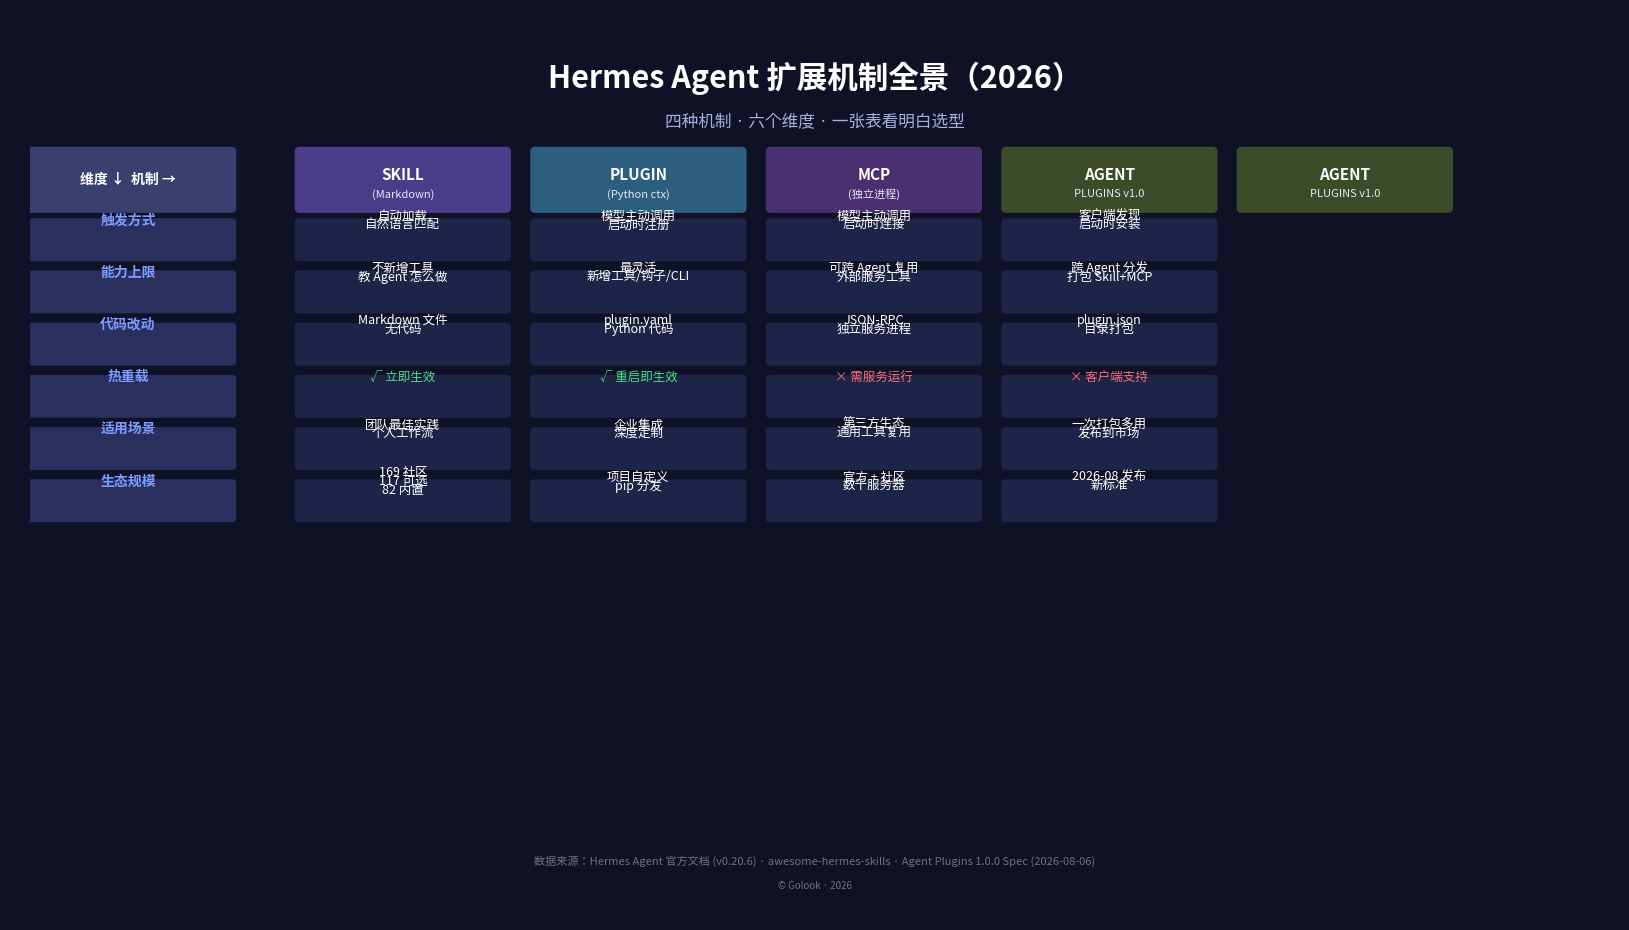
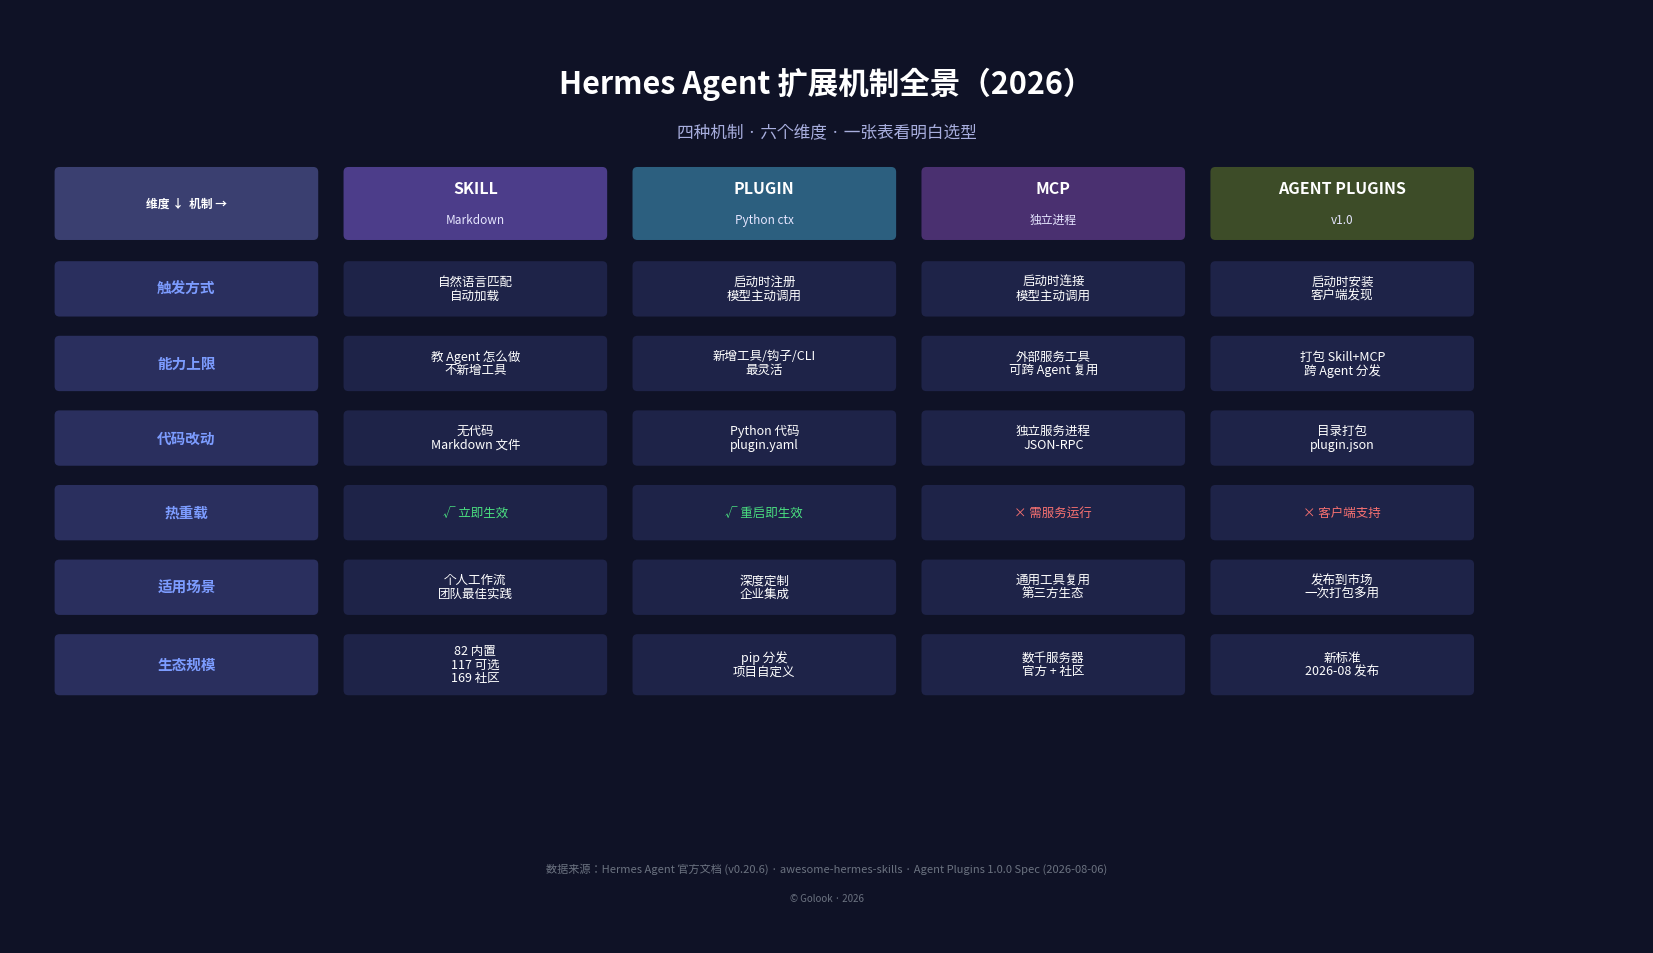
Fix: extension-mechanisms overview image layout (5 columns aligned, line spacing > font height)

diff --git a/source/images/hermes-extension-mechanisms-overview-2026.py b/source/images/hermes-extension-mechanisms-overview-2026.py
@@ -1,5 +1,13 @@
 #!/usr/bin/env python3
-"""Hermes Agent 扩展机制全景图 — 四种机制 × 六个维度对比表"""
+"""Hermes Agent 扩展机制全景图 — 四种机制 × 六个维度对比表
+
+修复记录（2026-10-26）：
+  1. 原 col_x 有 6 个 x 坐标，表头循环画了 6 个盒子，但数据只有 4 个机制 →
+     最右列永远空白。现改为 NCOLS=5（1 维度列 + 4 机制列），表头与数据同长度。
+  2. 原多行文字行距 0.9 单位 = 9px，而 fontsize=9 @ dpi=100 = 13.75px →
+     行距小于字号，文字互相压叠。现按 LINE_SP 单位（>= fontsize/dpi 折算）计算行距，
+     并按每格最大行数动态抬高该行高度。
+"""
 import matplotlib
 matplotlib.use('Agg')
 import matplotlib.pyplot as plt
@@ -12,141 +20,148 @@ FONT_REG  = FontProperties(fname='/usr/share/fonts/opentype/noto/NotoSansCJK-Reg
 
 # 主题色（深色背景 + 蓝紫）
 BG      = '#0f1226'
-PANEL   = '#181c38'
 HEADER  = '#2a2f5e'
 CELL    = '#1e2348'
-CELL_A  = '#2a2f5e'   # hover/强调
-GRID    = '#3a3f70'
 TITLE_C = '#ffffff'
 SUB_C   = '#a8aede'
 ACCENT  = '#7c9cff'   # 蓝
-ACCENT2 = '#b58cff'   # 紫
 GREEN   = '#4ade80'
-YELLOW  = '#fbbf24'
 RED     = '#f87171'
 GREY    = '#6b7280'
 
-fig, ax = plt.subplots(figsize=(16, 9), dpi=100)
-ax.set_facecolor(BG)
-fig.patch.set_facecolor(BG)
-ax.set_xlim(0, 160)
-ax.set_ylim(0, 90)
-ax.axis('off')
+FIG_W_IN, FIG_H_IN, DPI = 16, 9, 100
+X_MAX, Y_MAX = 160, 90
 
-# 标题
-ax.text(80, 85, 'Hermes Agent 扩展机制全景（2026）',
-        fontproperties=FONT_BOLD, fontsize=22, color=TITLE_C, ha='center', va='center')
-ax.text(80, 80.5, '四种机制 · 六个维度 · 一张表看明白选型',
-        fontproperties=FONT_REG, fontsize=12, color=SUB_C, ha='center', va='center')
+# --- 版式几何（单位：数据坐标；1 单位 y = FIG_H_IN/Y_MAX*DPI px）---
+PX_PER_UNIT_Y = FIG_H_IN / Y_MAX * DPI          # 1 单位 y 对应的像素数
+FS_CELL = 9                                     # 正文字号
+FS_HEAD = 11.5
+FS_HEAD_SUB = 8.5
+FS_DIM = 10.5
+LINE_SP = (FS_CELL * 1.55) / PX_PER_UNIT_Y      # 行距单位：保证 > 一行字高
+PAD_V = 1.0                                     # 单元格上下内边距（单位 y）
 
-# 表格布局：1 列维度 + 4 列机制
-col_x = [10, 38, 62, 86, 110, 134]   # 6 列中心 x
-col_w = 22
-row_h = 5.4
-row_top = 76
+NMECH = 4                                        # 机制列数
+NCOLS = NMECH + 1                                # 总列数（含维度列）
+GAP = 2.6                                        # 列间隙
+COLOFF = 14                                     # 左侧留白
+COL_W = 26.6
+col_x = [COLOFF + GAP / 2 + i * (COL_W + GAP) for i in range(NCOLS)]
 
-# 表头行
-header_y = row_top - 1.5
-for i, x in enumerate(col_x):
-    # 交替色块
-    if i == 0:
-        color = '#3a3f70'
-        label = '维度 ↓  机制 →'
-    elif i == 1:
-        color = '#4c3d8a'  # skill 紫
-        label = 'SKILL\n(Markdown)'
-    elif i == 2:
-        color = '#2c5f7f'  # plugin 青
-        label = 'PLUGIN\n(Python ctx)'
-    elif i == 3:
-        color = '#4a3070'  # MCP 深紫
-        label = 'MCP\n(独立进程)'
-    else:
-        color = '#3d4c28'  # Agent Plugins 绿
-        label = 'AGENT\nPLUGINS v1.0'
-    rect = FancyBboxPatch((x - col_w/2, header_y - 3.4), col_w, 6.8,
-                          boxstyle="round,pad=0.02,rounding_size=0.5",
-                          linewidth=0, facecolor=color)
-    ax.add_patch(rect)
-    # 表头文字：分两行时垂直居中，一行时居中
-    if '\n' in label:
-        ax.text(x, header_y + 0.5, label.split('\n')[0],
-                fontproperties=FONT_BOLD, fontsize=11, color='white', ha='center', va='center')
-        ax.text(x, header_y - 1.5, label.split('\n')[1],
-                fontproperties=FONT_REG, fontsize=8, color='#e6e6ff', ha='center', va='center')
-    else:
-        ax.text(x, header_y, label,
-                fontproperties=FONT_BOLD, fontsize=10, color='white', ha='center', va='center')
+# --- 表头（1 维度列 + 4 机制列，长度与数据严格一致）---
+HEADERS = [
+    ('维度 ↓  机制 →', '#3a3f70', None),
+    ('SKILL', '#4c3d8a', 'Markdown'),
+    ('PLUGIN', '#2c5f7f', 'Python ctx'),
+    ('MCP', '#4a3070', '独立进程'),
+    ('AGENT PLUGINS', '#3d4c28', 'v1.0'),
+]
+HEAD_H = 7.4
 
-# 数据行：6 个维度
-rows = [
-    # (维度, skill, plugin, mcp, agent_plugins)
+# --- 数据行：6 个维度 × 4 机制 ---
+ROWS = [
     ('触发方式', '自然语言匹配\n自动加载', '启动时注册\n模型主动调用', '启动时连接\n模型主动调用', '启动时安装\n客户端发现'),
     ('能力上限', '教 Agent 怎么做\n不新增工具', '新增工具/钩子/CLI\n最灵活', '外部服务工具\n可跨 Agent 复用', '打包 Skill+MCP\n跨 Agent 分发'),
     ('代码改动', '无代码\nMarkdown 文件', 'Python 代码\nplugin.yaml', '独立服务进程\nJSON-RPC', '目录打包\nplugin.json'),
-    ('热重载', '√ 立即生效', '√ 重启即生效', '× 需服务运行', '× 客户端支持'),
+    ('热重载',   '√ 立即生效', '√ 重启即生效', '× 需服务运行', '× 客户端支持'),
     ('适用场景', '个人工作流\n团队最佳实践', '深度定制\n企业集成', '通用工具复用\n第三方生态', '发布到市场\n一次打包多用'),
     ('生态规模', '82 内置\n117 可选\n169 社区', 'pip 分发\n项目自定义', '数千服务器\n官方 + 社区', '新标准\n2026-08 发布'),
 ]
 
-def cell_color(row_idx, col_idx, value):
-    """给关键单元格上色"""
-    v = value.replace('\n', '')
-    if '无代码' in v or '✅ 立即' in v or '⚠' in v:
-        if '⚠' in v:
-            return '#4a2f2f'
-        return '#2c4a2f'
-    return CELL
 
-row_y_start = row_top - 5.5
-for i, (dim, a, b, c, d) in enumerate(rows):
-    y = row_y_start - i * row_h
+def nlines(val):
+    return len(val.split('\n'))
+
+
+def cell_h(vals):
+    """按该行最大行数算出所需行高，保证不压叠、不溢出。"""
+    need = max(nlines(v) for v in vals) * LINE_SP + PAD_V * 2
+    return max(need, 5.6)
+
+
+def draw_cell(ax, x, y_top, w, h, color):
+    ax.add_patch(FancyBboxPatch(
+        (x - w / 2, y_top - h), w, h,
+        boxstyle="round,pad=0.02,rounding_size=0.5",
+        linewidth=0, facecolor=color, zorder=1))
+
+
+def cell_text_color(val):
+    """热重载行按 √/× 着色，其余白色。"""
+    if val.startswith('√'):
+        return GREEN
+    if val.startswith('×'):
+        return RED
+    return TITLE_C
+
+
+fig, ax = plt.subplots(figsize=(FIG_W_IN, FIG_H_IN), dpi=DPI)
+ax.set_facecolor(BG)
+fig.patch.set_facecolor(BG)
+ax.set_xlim(0, X_MAX)
+ax.set_ylim(0, Y_MAX)
+ax.axis('off')
+
+# 标题
+ax.text(80, Y_MAX - 5, 'Hermes Agent 扩展机制全景（2026）',
+        fontproperties=FONT_BOLD, fontsize=22, color=TITLE_C, ha='center', va='center', zorder=2)
+ax.text(80, Y_MAX - 10, '四种机制 · 六个维度 · 一张表看明白选型',
+        fontproperties=FONT_REG, fontsize=12, color=SUB_C, ha='center', va='center', zorder=2)
+
+# 表头行
+head_top = Y_MAX - 13.5
+draw_cell(ax, col_x[0], head_top, COL_W, HEAD_H, '#3a3f70')
+ax.text(col_x[0], head_top - HEAD_H / 2, '维度 ↓  机制 →',
+        fontproperties=FONT_BOLD, fontsize=FS_HEAD_SUB, color='white',
+        ha='center', va='center', zorder=2)
+
+for j in range(1, NCOLS):
+    name, color, sub = HEADERS[j]
+    draw_cell(ax, col_x[j], head_top, COL_W, HEAD_H, color)
+    cy = head_top - HEAD_H / 2
+    if sub:
+        ax.text(col_x[j], cy + 1.5, name, fontproperties=FONT_BOLD, fontsize=FS_HEAD,
+                color='white', ha='center', va='center', zorder=2)
+        ax.text(col_x[j], cy - 1.7, sub, fontproperties=FONT_REG, fontsize=FS_HEAD_SUB,
+                color='#e6e6ff', ha='center', va='center', zorder=2)
+    else:
+        ax.text(col_x[j], cy, name, fontproperties=FONT_BOLD, fontsize=FS_HEAD,
+                color='white', ha='center', va='center', zorder=2)
+
+# 数据行（行高按内容动态计算，逐行下推）
+y_cursor = head_top - HEAD_H - 2.2
+for dim, *vals in ROWS:
+    h = cell_h(vals)
     # 维度列
-    rect = FancyBboxPatch((col_x[0] - col_w/2, y - row_h + 1), col_w, row_h - 1,
-                          boxstyle="round,pad=0.02,rounding_size=0.4",
-                          linewidth=0, facecolor=HEADER)
-    ax.add_patch(rect)
-    ax.text(col_x[0], y - 0.2, dim, fontproperties=FONT_BOLD, fontsize=10,
-            color=ACCENT, ha='center', va='center')
-
-    for j, val in enumerate([a, b, c, d]):
-        x = col_x[j+1]
-        rect = FancyBboxPatch((x - col_w/2, y - row_h + 1), col_w, row_h - 1,
-                              boxstyle="round,pad=0.02,rounding_size=0.4",
-                              linewidth=0, facecolor=CELL)
-        ax.add_patch(rect)
-        # 多行文本
+    draw_cell(ax, col_x[0], y_cursor, COL_W, h, HEADER)
+    ax.text(col_x[0], y_cursor - h / 2, dim, fontproperties=FONT_BOLD, fontsize=FS_DIM,
+            color=ACCENT, ha='center', va='center', zorder=2)
+    # 机制列
+    for j, val in enumerate(vals):
+        draw_cell(ax, col_x[j + 1], y_cursor, COL_W, h, CELL)
         lines = val.split('\n')
+        color = cell_text_color(val)
         if len(lines) == 1:
-            # 单独行也检查颜色关键字
-            if val.startswith('√'):
-                color = GREEN
-            elif val.startswith('×'):
-                color = RED
-            else:
-                color = TITLE_C
-            ax.text(x, y - 0.2, val, fontproperties=FONT_REG, fontsize=9,
-                    color=color, ha='center', va='center')
+            ax.text(col_x[j + 1], y_cursor - h / 2, lines[0], fontproperties=FONT_REG,
+                    fontsize=FS_CELL, color=color, ha='center', va='center', zorder=2)
         else:
+            block_h = (len(lines) - 1) * LINE_SP
+            first_y = y_cursor - h / 2 + block_h / 2
             for k, line in enumerate(lines):
-                yy = y - 0.2 - (len(lines)-1)*0.9/2 + k*0.9
-                # √ × 单独着色（表头行/热重载行使用）
-                if line.startswith('√'):
-                    color = GREEN
-                elif line.startswith('×'):
-                    color = RED
-                else:
-                    color = TITLE_C
-                ax.text(x, yy, line, fontproperties=FONT_REG, fontsize=9,
-                        color=color, ha='center', va='center')
+                ax.text(col_x[j + 1], first_y - k * LINE_SP, line,
+                        fontproperties=FONT_REG, fontsize=FS_CELL, color=color,
+                        ha='center', va='center', zorder=2)
+    y_cursor -= h + 2.0
 
 # 底部注解
-ax.text(80, 4, '数据来源：Hermes Agent 官方文档 (v0.20.6) · awesome-hermes-skills · Agent Plugins 1.0.0 Spec (2026-08-06)',
-        fontproperties=FONT_REG, fontsize=8, color=GREY, ha='center', va='center')
-ax.text(80, 1.5, '© Golook · 2026',
-        fontproperties=FONT_REG, fontsize=7, color=GREY, ha='center', va='center')
+ax.text(80, 5, '数据来源：Hermes Agent 官方文档 (v0.20.6) · awesome-hermes-skills · Agent Plugins 1.0.0 Spec (2026-08-06)',
+        fontproperties=FONT_REG, fontsize=8, color=GREY, ha='center', va='center', zorder=2)
+ax.text(80, 2, '© Golook · 2026',
+        fontproperties=FONT_REG, fontsize=7, color=GREY, ha='center', va='center', zorder=2)
 
-plt.tight_layout()
+plt.tight_layout(pad=0.6)
 plt.savefig('/root/hexo-template-edgeone/source/images/hermes-extension-mechanisms-overview-2026.png',
-            facecolor=BG, bbox_inches='tight', pad_inches=0.3)
+            facecolor=BG, bbox_inches='tight', pad_inches=0.35)
 print('✅ 图 1 完成：hermes-extension-mechanisms-overview-2026.png')
+print(f'   列数={NCOLS} 行距={LINE_SP:.2f}单位({LINE_SP*PX_PER_UNIT_Y:.1f}px) '
+      f'字高={FS_CELL/PX_PER_UNIT_Y:.2f}单位 行数比={LINE_SP/(FS_CELL/PX_PER_UNIT_Y):.2f}')
